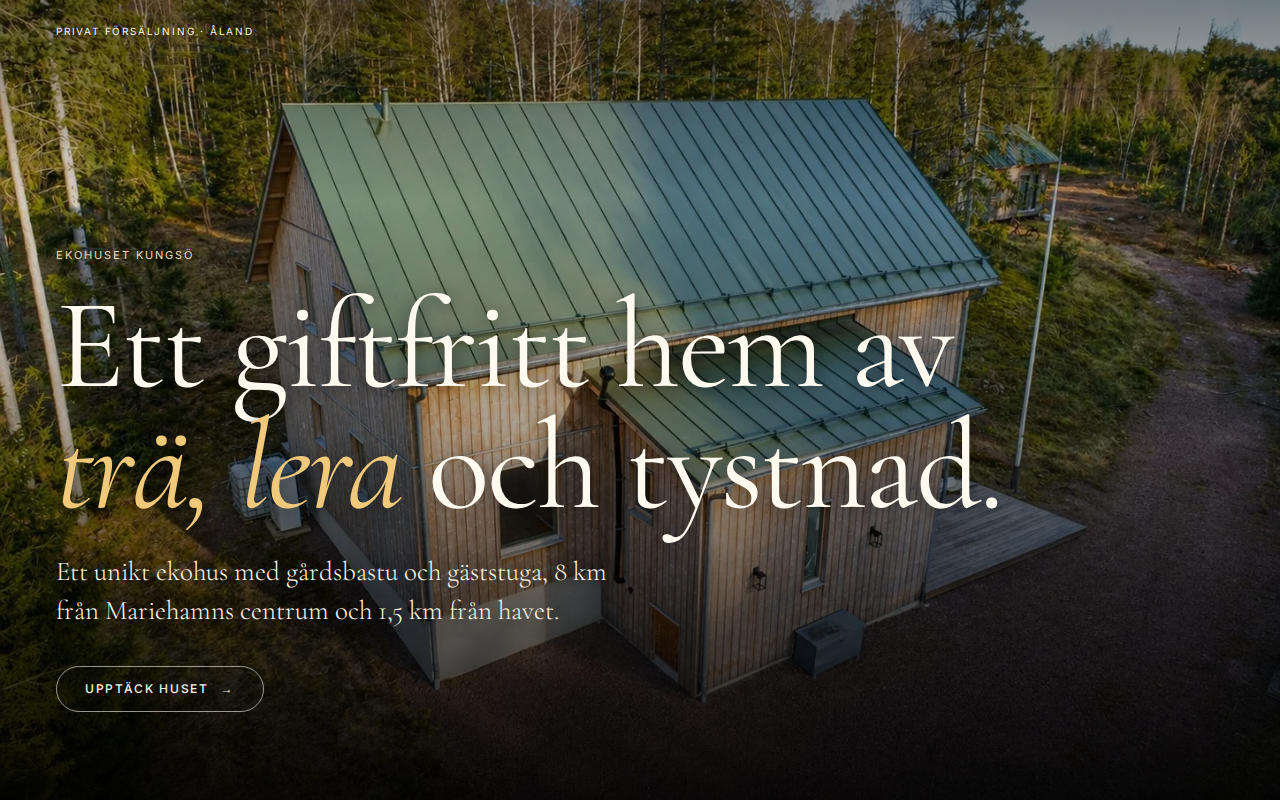
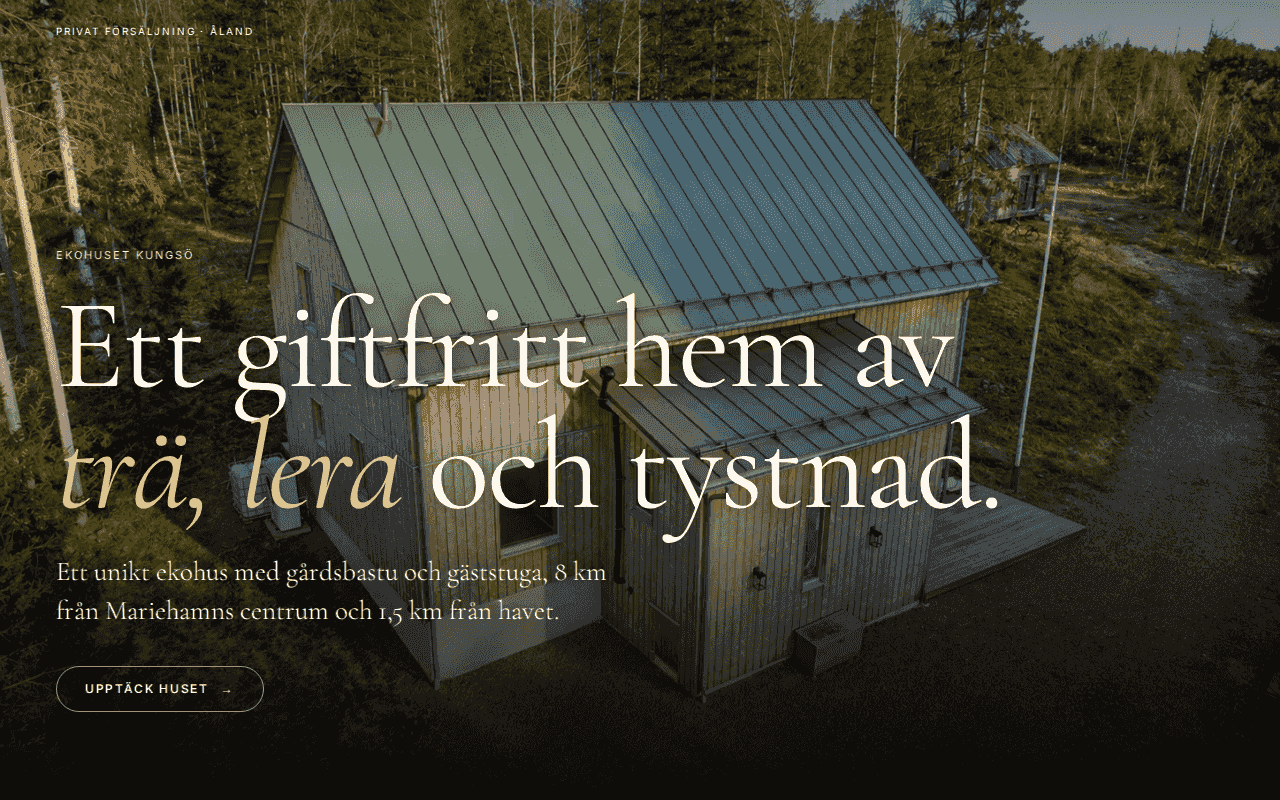
Split products into own products and client projects, compress screenshots
Restructure the products modal into two sections — PDC's own products
and client projects (battaxi.ax, stresscoach.ax, ekohus.ax) — and
compress the new screenshots to match the existing image budget.

https://claude.ai/code/session_01DCFeQfkLYWR75xT1HzoQY5

diff --git a/index.html b/index.html
@@ -836,10 +836,12 @@ html[data-motion="off"] *, html[data-motion="off"] body::before { animation: non
       <button class="close" data-i18n-aria-label="aria.close" aria-label="Stäng">×</button>
     </nav>
     <div class="idx" data-i18n="port.idx">03 · Produkter</div>
-    <h2><span data-i18n="port.title_a">Egna </span><em data-i18n="port.title_em">produkter</em></h2>
-    <p class="lede" data-i18n="port.lede">Produkter byggda och drivna av PDC.</p>
+    <h2><span data-i18n="port.title_a">Produkter & </span><em data-i18n="port.title_em">projekt</em></h2>
+    <p class="lede" data-i18n="port.lede">Egna produkter byggda och drivna av PDC, och webb och system vi byggt åt kunder.</p>
 
-    <div class="port-grid">
+    <section>
+      <h3 data-i18n="port.own_h">Egna produkter</h3>
+      <div class="port-grid">
       <a class="port-card" href="https://res.ax" target="_blank" rel="noopener">
         <span class="plogo"><img src="resax.png" alt="res.ax" loading="lazy"></span>
         <h4>res<em>.ax</em></h4>
@@ -882,6 +884,12 @@ html[data-motion="off"] *, html[data-motion="off"] body::before { animation: non
         <p data-i18n="port.udrop">Publicera markdown med en enda POST. Få en URL till dokument, slides eller PDF — direkt från terminalen.</p>
         <span class="go"><span data-i18n="port.visit" data-i18n-args="udrop.dev">Besök udrop.dev</span> <span class="arr">→</span></span>
       </a>
+      </div>
+    </section>
+
+    <section>
+      <h3 data-i18n="port.client_h">Kundprojekt</h3>
+      <div class="port-grid">
       <a class="port-card" href="https://battaxi.ax" target="_blank" rel="noopener">
         <span class="plogo"><img src="battaxi.png" alt="battaxi.ax" loading="lazy"></span>
         <h4>battaxi<em>.ax</em></h4>
@@ -900,7 +908,8 @@ html[data-motion="off"] *, html[data-motion="off"] body::before { animation: non
         <p data-i18n="port.ekohus">Ett giftfritt ekohus av trä och lera utanför Mariehamn. Uthyrning av unikt boende med gästhus, nära både stad och hav.</p>
         <span class="go"><span data-i18n="port.visit" data-i18n-args="ekohus.ax">Besök ekohus.ax</span> <span class="arr">→</span></span>
       </a>
-    </div>
+      </div>
+    </section>
 
   </div>
 </div>
@@ -972,9 +981,11 @@ const I18N = {
 
     "port.idx": "03 · Produkter",
     "port.title_a": "Produkter & ",
-    "port.title_em": "uppdrag",
-    "port.lede": "Egna produkter byggda och drivna av PDC, samt webb och system vi byggt åt kunder.",
+    "port.title_em": "projekt",
+    "port.lede": "Egna produkter byggda och drivna av PDC, och webb och system vi byggt åt kunder.",
     "port.visit": "Besök {0}",
+    "port.own_h": "Egna produkter",
+    "port.client_h": "Kundprojekt",
     "port.resax": "Ålands reseportal. Samlar restider från olika transportsätt så du enkelt hittar och planerar din resa till och från Åland.",
     "port.korgen": "Ålands digitala torg. Handla mat och hantverk från lokala producenter på ett ställe.",
     "port.loppis": "Alla loppisar på Åland samlade på en karta. Hitta second hand, loppmarknader och begagnat nära dig.",
@@ -1050,9 +1061,11 @@ const I18N = {
 
     "port.idx": "03 · Products",
     "port.title_a": "Products & ",
-    "port.title_em": "engagements",
+    "port.title_em": "projects",
     "port.lede": "Our own products built and operated by PDC, plus web and systems we've built for clients.",
     "port.visit": "Visit {0}",
+    "port.own_h": "Our products",
+    "port.client_h": "Client projects",
     "port.resax": "Åland's travel portal. Aggregates travel times across transport modes so you can easily plan trips to and from Åland.",
     "port.korgen": "Åland's digital marketplace. Shop food and crafts from local producers in one place.",
     "port.loppis": "All flea markets on Åland on one map. Find second-hand and flea markets near you.",